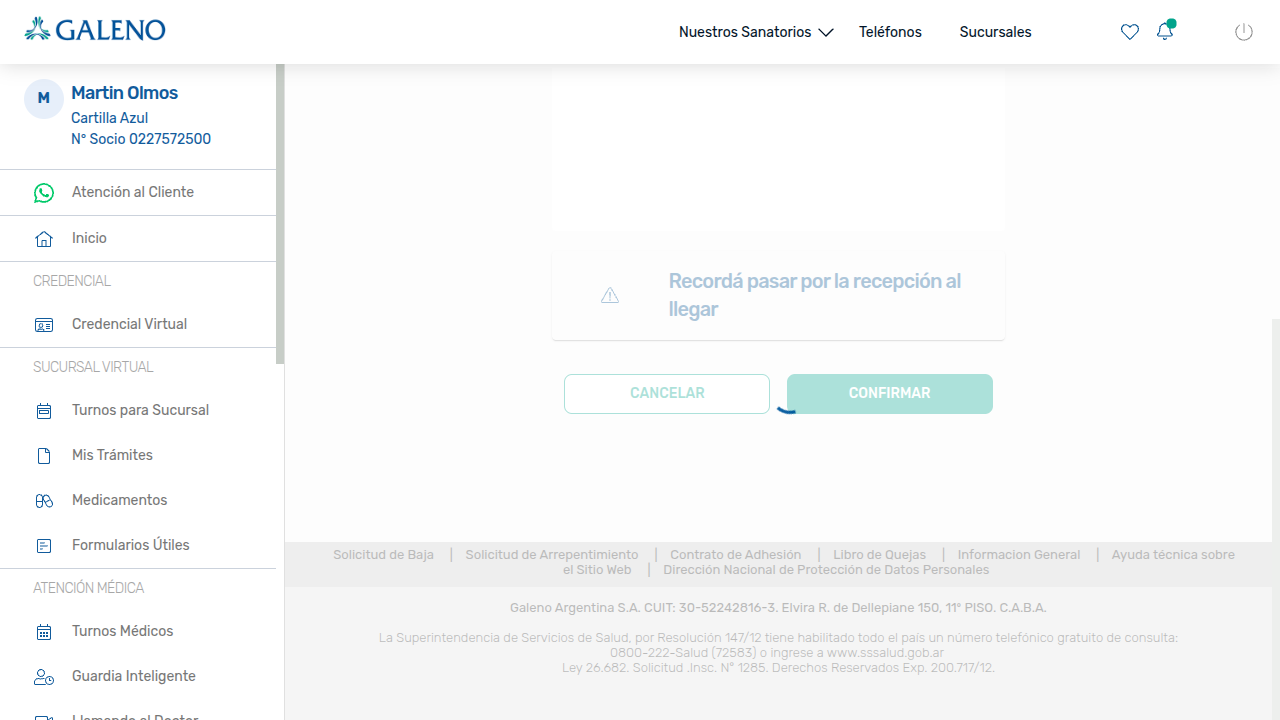
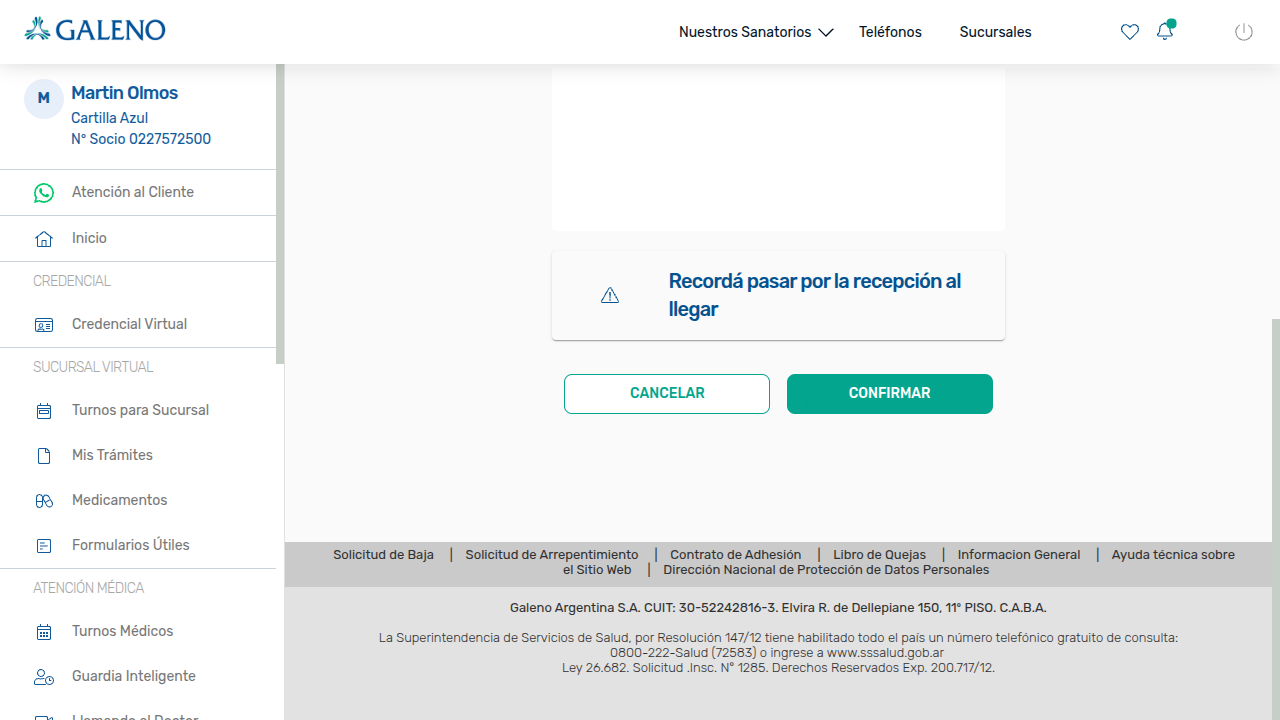
turnos medicos- primer  cambio

diff --git a/tests/04-Turnos-Medicos.spec.ts b/tests/04-Turnos-Medicos.spec.ts
@@ -1,0 +1,122 @@
+import { test, expect } from '../fixtures/auth'
+import { esperarCarga } from '../utils/waits'
+
+test.setTimeout(120000)
+
+test('turnos medicos - flujo basico', async ({ authenticatedPage }) => {
+  const page = authenticatedPage
+
+  //.1 Tomar screenshot de la home para verificar
+  await page.screenshot({ path: 'home-turnos-screenshot.png', fullPage: true })
+
+  //.2 Buscar y hacer click en "Turnos Médicos" usando el rol button y el texto visible
+  const turnosElement = page.getByRole('button', { name: 'Turnos Médicos' })
+  await turnosElement.waitFor({ state: 'visible', timeout: 60000 })
+  await turnosElement.click()
+
+  //.3 Esperar a que cargue la página de turnos médicos
+  await page.waitForURL('**/socio/turno', { timeout: 90000 })
+
+  //.4 Verificar que estamos en la página correcta
+  await expect(page).toHaveURL(/\/socio\/turno/)
+
+  //.5 Esperar a que termine la carga de la página
+  await esperarCarga(page)
+
+  //.6 Tomar screenshot de la página de turnos
+  await page.screenshot({ path: 'turnos-medicos-screenshot.png', fullPage: true })
+
+  // .7 Buscar y hacer click en el botón "Nuevo Turno" (icono +)
+  const nuevoTurnoButton = page.locator('[data-testid="AddIcon"]')
+  await nuevoTurnoButton.waitFor({ state: 'visible', timeout: 60000 })
+  await nuevoTurnoButton.click()
+
+  // .8 Esperar a que cargue la página de crear turno
+  await page.waitForURL('**/socio/turno/crear', { timeout: 90000 })
+
+  // .9 Verificar que estamos en la página correcta
+  await expect(page).toHaveURL(/\/socio\/turno\/crear/)
+
+  // .10 Esperar a que termine la carga de la página
+  await esperarCarga(page)
+
+  // .11 Tomar screenshot de la página de crear turno
+  await page.screenshot({ path: 'crear-turno-screenshot.png', fullPage: true })
+
+  // .12 Verificar que el checkbox "Especialidad" esté marcado por defecto
+  const checkboxEspecialidadByRole = page.getByRole('checkbox', { name: /especialidad/i })
+  const checkboxEspecialidad =
+    (await checkboxEspecialidadByRole.count()) > 0
+      ? checkboxEspecialidadByRole.first()
+      : page
+          .locator(
+            'input[type="checkbox"][name*="especialidad" i], input[type="checkbox"][id*="especialidad" i], input[type="checkbox"]'
+          )
+          .first()
+  await checkboxEspecialidad.waitFor({ state: 'attached', timeout: 60000 })
+  await expect(checkboxEspecialidad).toBeChecked()
+
+  // .13 Click en el desplegable de especialidad usando el combobox de MUI
+  const especialidadCombobox = page
+    .locator('label:has-text("Especialidad")')
+    .locator('xpath=following::div[@role="combobox" and @aria-haspopup="listbox"][1]')
+
+  await especialidadCombobox.waitFor({ state: 'visible', timeout: 60000 })
+
+  // Verificar si ya está expandido, si no, abrir con click y fallback por teclado
+  const isExpanded = (await especialidadCombobox.getAttribute('aria-expanded')) === 'true'
+  if (!isExpanded) {
+    await especialidadCombobox.click({ force: true })
+    const expandedAfterClick = (await especialidadCombobox.getAttribute('aria-expanded')) === 'true'
+    if (!expandedAfterClick) {
+      await especialidadCombobox.focus()
+      await page.keyboard.press('ArrowDown')
+    }
+  }
+
+  await expect(especialidadCombobox).toHaveAttribute('aria-expanded', 'true', { timeout: 15000 })
+
+  // .14 Seleccionar "Dermatologia" en el listado de especialidades
+  const dermatologiaOption = page.getByRole('option', { name: /Dermatologia/i }).first()
+  await dermatologiaOption.waitFor({ state: 'visible', timeout: 15000 })
+  await dermatologiaOption.click()
+
+  // .15 Abrir el desplegable "Práctica Médica"
+  const practicaMedicaLabel = page.locator('label:has-text("Práctica Médica")')
+  const practicaMedicaLabelFallback = page.locator('label:has-text("Practica Medica")')
+  const practicaMedicaCombobox =
+    (await practicaMedicaLabel.count()) > 0
+      ? practicaMedicaLabel
+          .locator(
+            'xpath=following::div[@role="combobox" and @aria-haspopup="listbox" and not(@aria-disabled="true")][1]'
+          )
+          .first()
+      : practicaMedicaLabelFallback
+          .locator(
+            'xpath=following::div[@role="combobox" and @aria-haspopup="listbox" and not(@aria-disabled="true")][1]'
+          )
+          .first()
+
+  await practicaMedicaCombobox.waitFor({ state: 'visible', timeout: 60000 })
+  const practicaExpanded = (await practicaMedicaCombobox.getAttribute('aria-expanded')) === 'true'
+  if (!practicaExpanded) {
+    await practicaMedicaCombobox.click({ force: true })
+    const practicaExpandedAfterClick = (await practicaMedicaCombobox.getAttribute('aria-expanded')) === 'true'
+    if (!practicaExpandedAfterClick) {
+      await practicaMedicaCombobox.focus()
+      await page.keyboard.press('ArrowDown')
+    }
+  }
+
+  await expect(practicaMedicaCombobox).toHaveAttribute('aria-expanded', 'true', { timeout: 15000 })
+
+  // .16 Seleccionar "Consulta" en el desplegable de Práctica Médica
+  const consultaOption = page.getByRole('option', { name: /Consulta/i }).first()
+  await consultaOption.waitFor({ state: 'visible', timeout: 15000 })
+  await consultaOption.click()
+
+  // .17 Tomar screenshot con Especialidad y Práctica Médica seleccionadas
+  await page.screenshot({ path: 'crear-turno-especialidad-practica-seleccionadas-screenshot.png', fullPage: true })
+
+  
+})
